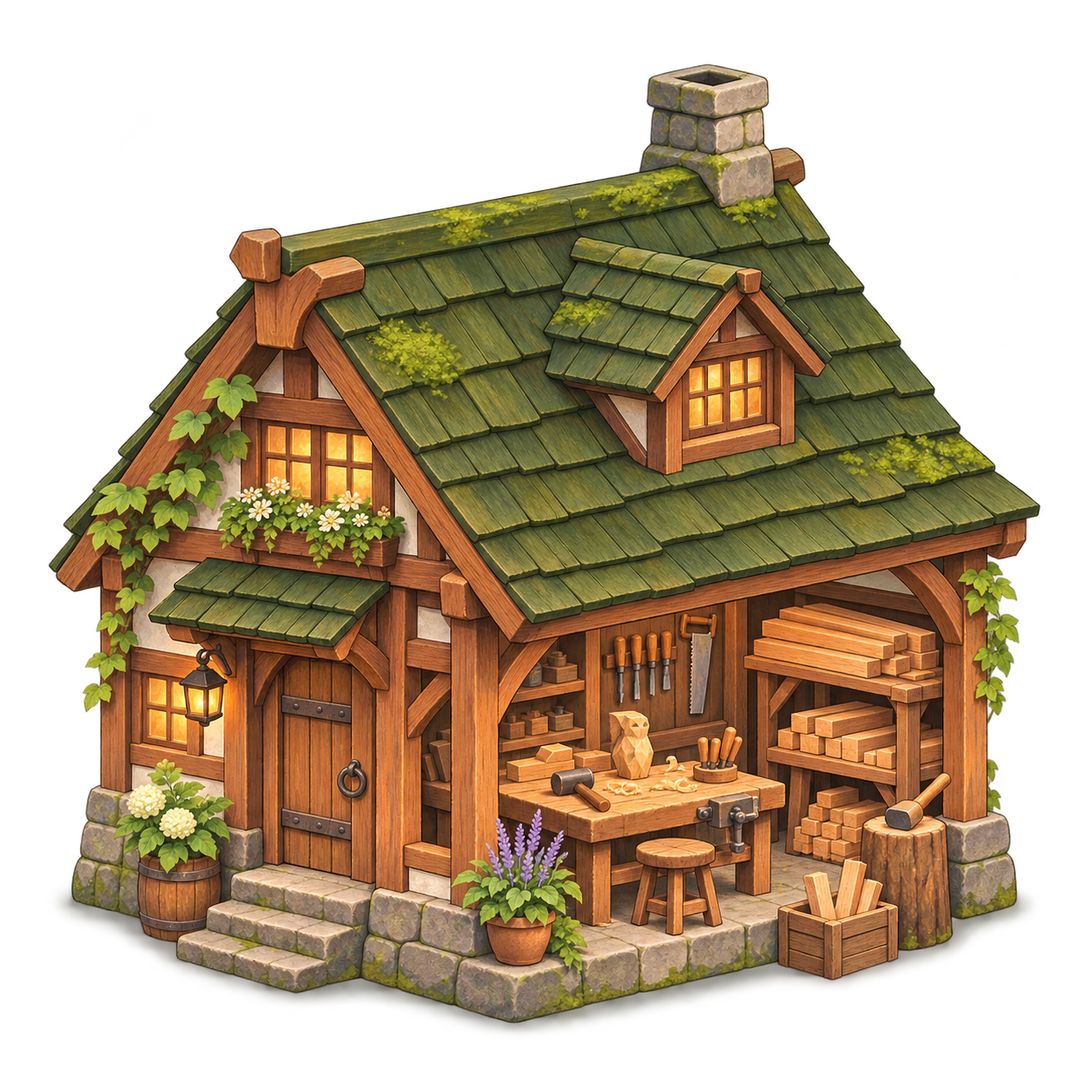
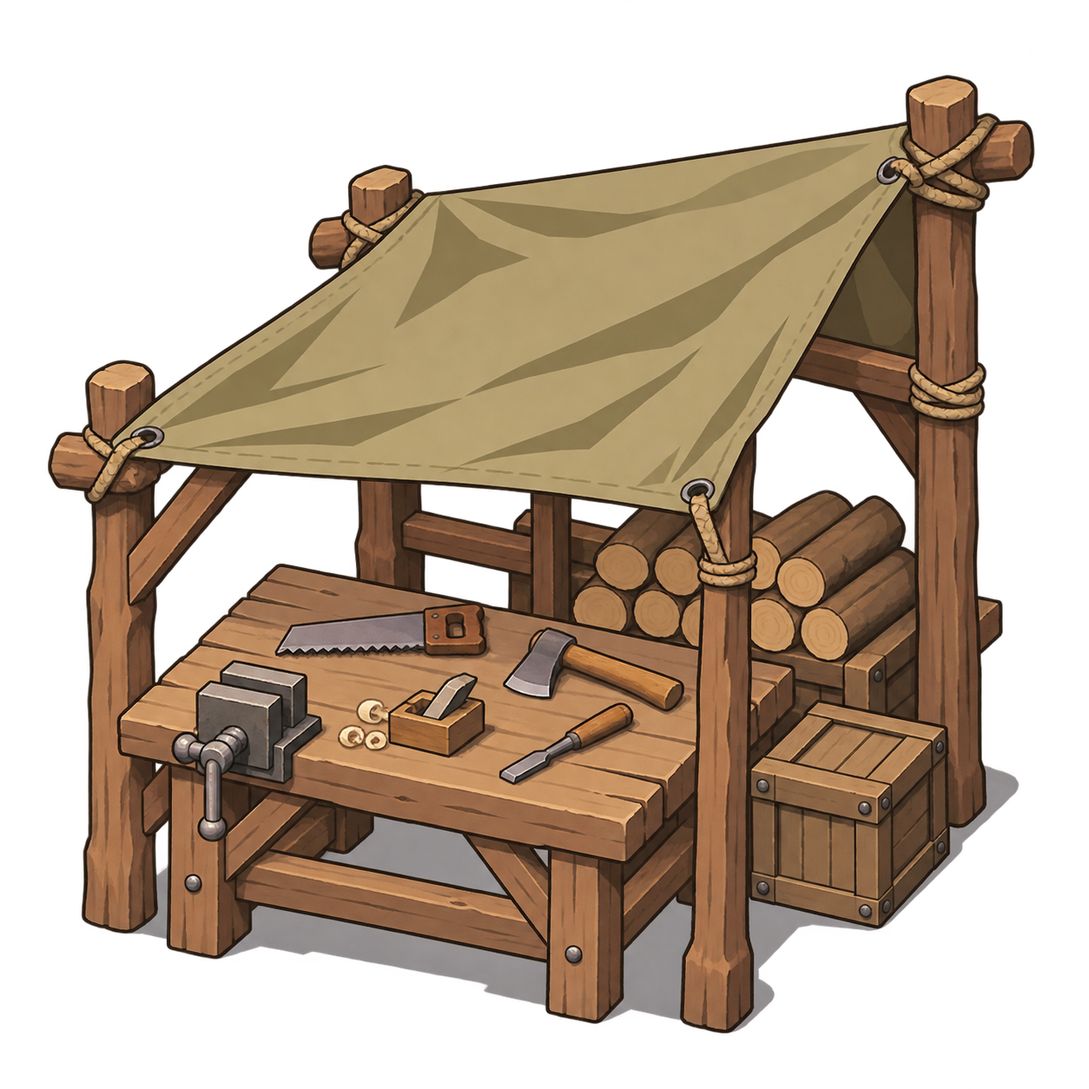
art: apply survival theme to the 2D village base

diff --git a/docs/superpowers/plans/2026-11-12-unity-phone.md b/docs/superpowers/plans/2026-11-12-unity-phone.md
@@ -1,6 +1,6 @@
 # Unity phone application Implementation Plan
 
-> **For agentic workers:** REQUIRED SUB-SKILL: Use superpowers:subagent-driven-development (recommended) or superpowers:executing-plans to implement this plan task-by-task. Steps use checkbox (`- [ ]`) syntax for tracking.
+> **For agentic workers:** REQUIRED SUB-SKILL: Use superpowers:subagent-driven-development (recommended) or superpowers:executing-plans to implement this plan task-by-task. Steps use checkbox (`- [x]`) syntax for tracking.
 
 **Goal:** Build the full landscape Unity phone UI over existing affinity/camp Dart controllers.
 **Architecture:** Invisible Flutter host dispatches validated Unity intents to saved Dart controllers. A versioned snapshot drives a Unity home/camp world and reused cabin; platform services supply real camera/speech inputs.
@@ -9,7 +9,7 @@
 
 ## Global Constraints
 - Egg appears only in cabin; #93/#100 rules and canonical species IDs remain authoritative.
-- All visible app screens in Unity; warm landscape toy-world design references #97.
+- All visible app screens in Unity; latest camp art direction is Palworld-like survival materials, with Ninja Voltage composition. #97 is reference only.
 - No fake balances or Pleos reward contract; preserve current source worktrees and persistent user data.
 - Exact app/AppAction DTO names and fields are in the spec. No raw speech/photo/token in snapshots/logs.
 - Agents own disjoint files. Main agent alone runs shared Unity Editor commands and integrates scene builder/shared bridge.
@@ -24,41 +24,47 @@
 ### Task 1: Dart state/command bridge and invisible host
 Files: phone/lib/unity_app/**, phone/lib/app.dart, phone/test/unity_app*_test.dart only.
 Consumes exact snapshot/actions from spec and existing controllers; produces UnityAppController snapshot + handleMessage and UnityAppScreen using existing UnityViewBuilder.
-- [ ] Write and run failing behavioral boundary tests (stale egg, duplicate mutation, malformed/version, outside-cabin egg input).
-- [ ] Implement normalized snapshots, validated serialized dispatch, actual affinity/camp APIs, lifecycle/dispose, default Android Unity route and injection for native input.
-- [ ] Focused tests then phone full suite, report evidence and commit only owned paths.
+- [x] Write and run failing behavioral boundary tests (stale egg, duplicate mutation, malformed/version, outside-cabin egg input).
+- [x] Implement normalized snapshots, validated serialized dispatch, actual affinity/camp APIs, lifecycle/dispose, default Android Unity route and injection for native input.
+- [x] Focused tests then phone full suite, report evidence and commit only owned paths.
 
 ### Task 2: Unity application UI
 Files: unity/allo_explore/Assets/Scripts/App/AppUi.cs, AppUiWidgets.cs, AppUiViews.cs and corresponding meta only.
 Consumes AppSession, AppState and AppAction; produces real UGUI screens for all six views with navigation, pairing, egg state/commands, three facility workflows, selection/detail, food/action use, inventory and settings. Buttons use AppSession.Request; never mutate game rules. Preserve focused text fields across snapshot ticks, show pending/empty/errors and disabled reasons. UI changes are verified visually; main runs shared Unity tests/build.
-- [ ] Build reusable accessible UGUI style matching approved reference, valid Korean text and safe area.
-- [ ] Implement all six functional views and selection/confirmation/detail flows with real state.
-- [ ] Self-check contract/cost displays, report and commit owned files.
+- [x] Build reusable accessible UGUI style matching approved reference, valid Korean text and safe area.
+- [x] Implement all six functional views and selection/confirmation/detail flows with real state.
+- [x] Self-check contract/cost displays, report and commit owned files.
 
 ### Task 3: Unity home/camp world
 Files: unity/allo_explore/Assets/Scripts/App/AppWorld.cs plus meta only.
 Consumes AppState and exact SetView/Apply signatures; produces a distinct 3D camp diorama with three named facilities, canonical friend representations, home/camp camera, cabin restoration, visible level/work states. Existing cabin/world assets remain intact. No logic/reward generation or UI overlays.
-- [ ] Implement three-dimensional camp and state visuals, hide cabin outside cabin view and disable its input/camera rig appropriately.
-- [ ] Preserve original cabin transform/settings when switching back; tolerate no creatures and missing assets.
-- [ ] Report visual verification needs and commit owned files.
+- [x] Implement three-dimensional camp and state visuals, hide cabin outside cabin view and disable its input/camera rig appropriately.
+- [x] Preserve original cabin transform/settings when switching back; tolerate no creatures and missing assets.
+- [x] Report visual verification needs and commit owned files.
 
 ### Task 4: Cabin egg model and gestures
 Files: unity/allo_explore/Assets/Scripts/App/CabinEgg.cs; Assets/Tests/EditMode/CabinEggTests.cs and meta only.
 Consumes AppSession/AppState, produces Apply/SetView; egg primitive mesh must look like an egg, with four actual cabin locations, touch/drag placement, rubbing pet, preferred-zone affordance, feedback and saved hatch/failure animation confined to cabin. UI touch cannot pet/move or drag camera simultaneously. Never score locally; send intent with egg ID.
-- [ ] Add regression tests for cabin-only visibility and exactly four zones/current-ID intent context; tell main when ready for RED run before implementing.
-- [ ] Implement gestures/model and honest server-confirmed feedback.
-- [ ] Main runs Unity suite/build; report and commit owned files.
+- [x] Add regression tests for cabin-only visibility and exactly four zones/current-ID intent context; tell main when ready for RED run before implementing.
+- [x] Implement gestures/model and honest server-confirmed feedback.
+- [x] Main runs Unity suite/build; report and commit owned files.
 
 ### Task 5: Android real speech/photo input
 Files: phone/android/app/src/main/kotlin/ai/allo/allo_phone/EggInputBridge.kt, EggInputActivity.kt, MainActivity.kt; AndroidManifest.xml, res/xml/egg_camera_paths.xml only.
 Consumes method channel allo/egg-input; produces speech String/photo JPEG bytes/null cancellation. Use proxy Activity over currently foreground Unity Activity, system speech/camera intents and FileProvider, limit image to <=1280px and composite egg with Canvas, remove metadata, clear own temp images, prevent overlapping requests. Missing service/permissions produce errors, no private logging. Dart callback handles scoring.
-- [ ] Verify failure/denial/cancellation paths in native code, no runtime install/new libraries.
-- [ ] Implement registered proxy Activity and MethodChannel attachment/cleanup without changing ExploreBridge.
-- [ ] Build validation is main agent's responsibility; report and commit owned paths.
+- [x] Verify failure/denial/cancellation paths in native code, no runtime install/new libraries.
+- [x] Implement registered proxy Activity and MethodChannel attachment/cleanup without changing ExploreBridge.
+- [x] Build validation is main agent's responsibility; report and commit owned paths.
 
 ### Task 6: Shared schema, integration and verification (main)
 Files: AppState.cs, AppSession.cs, Bridge/MessageParser.cs, Bridge/FlutterBridge.cs, Bridge/Messages.cs, Common/Hud.cs, Editor/AlloBuild.cs, new app-state EditMode tests, docs.
-- [ ] Define shared DTO/session once; retain legacy explore protocol. appMode disables old HUD.
-- [ ] Integrate components in scene generation, embed existing Do Hyeon font from #97, run base/new Unity tests and full Dart suite.
-- [ ] Stage source into existing runtime build cache, export Android, build/install with data-preserving update.
-- [ ] Inspect screenshots across six views and test real supported interaction paths; fix discovered defects, independent whole-branch review, record verified limitations and deliver runnable app.
+- [x] Define shared DTO/session once; retain legacy explore protocol. appMode disables old HUD.
+- [x] Integrate components in scene generation, embed existing Do Hyeon font from #97, run base/new Unity tests and full Dart suite.
+- [x] Stage source into existing runtime build cache, export Android, build/install with data-preserving update.
+- [x] Inspect screenshots across six views and test real supported interaction paths; fix discovered defects, independent whole-branch review, record verified limitations and deliver runnable app.
+
+
+## Final steering and verification limits
+Ninja Voltage is the basic 2D village screen; Palworld is the survival theme only. The temporary 3D preview and its tests were removed after the user's explicit correction. Final implementation uses the persistent full-screen two-axis UGUI map, clean original 2D terrain/station sprites, fixed HUD/right action rail and existing game rules. Latest evidence is in docs/work-results/unity-phone/README.md.
+
+Implementation completion does not imply physical-device camera/STT, predictive Back, real vehicle or Pleos remote rewards have been end-to-end verified. Pleos reward schema remains pending. Manual emulator pan input was previously inconclusive; the real EventSystem PlayMode test covers both axes and fixed HUD.

diff --git a/docs/village-art-provenance.md b/docs/village-art-provenance.md
@@ -41,3 +41,27 @@ Original: `/Users/seokamoto/.codex/generated_images/01a1cef0-5e19-7890-88ba-8855
 Prompt:
 
 > Production-ready original 2D mobile village-building game art for ALLO. Sophisticated hand-painted anime-background illustration, friendly but not babyish. Natural believable colors: varied moss and olive greens, warm cedar wood, ochre dirt, muted stone; soft warm daylight, restrained saturation, clear dark-sage contours and subtle painted texture. Cohesive art direction inspired by high quality village management games, with completely original scenery, no copyrighted characters or emblems. No text, no letters, no UI panels, no labels, no watermark, no checkerboard. Asset: ONE isolated friendly companion training pavilion building sprite, square composition on a genuinely transparent background. Elevated three-quarter front view with roof top visible, consistent isometric village-game perspective. Cozy cedar training lodge with a muted slate-blue pitched roof, open practice veranda, straw exercise dummy and a round unlettered archery practice target to one side, low wooden practice rail and rolled exercise mats, tasteful plants. Entire building and small footprint within canvas with 10% clear padding. High detail readable at 220 pixels. A small soft painted contact shadow directly beneath; nothing else around it. No ground tile, no surrounding scenery, no people, no weapons, no ninja insignia, no signs or symbols with letters.
+
+
+## Final 2D survival-theme revision — 2026-11-12
+
+The user's correction is explicit: Ninja Voltage is the basic 2D village screen; Palworld is the survival theme only. The temporary 3D camp has been removed. The first cottage/watercolor images above are superseded by these crisp cel-shaded 2D assets. Built-in image_gen was used, with transparent_background=true for stations and false for terrain. Original generated files are preserved.
+
+| Runtime resource | Original generated PNG |
+| --- | --- |
+| Assets/Resources/VillageArt/background.png | exec-ec0729cd-5d58-4def-bbe2-93b8b5386520.png |
+| Assets/Resources/VillageArt/workshop.png | exec-cdd2012a-0e84-4960-9707-1157078761c5.png |
+| Assets/Resources/VillageArt/kitchen.png | exec-e72bbe0c-202b-4ff1-9bae-2ab03c1c8559.png |
+| Assets/Resources/VillageArt/training.png | exec-7338339b-be5c-43e5-948b-661899c4441b.png |
+
+Original directory: /Users/seokamoto/.codex/generated_images/01a1cef0-5e19-7890-88ba-88558762a2db/. Runtime resources are under unity/allo_explore/. Terrain is 1672×941 RGB; station sprites are 1254×1254 RGBA. Import settings preserve sRGB, original aspect and transparent edges, without mipmaps or NPOT rescaling.
+
+### Final prompt set
+Common direction: professional 2D Japanese anime mobile strategy village game art; fixed raised oblique overview about 50 degrees down; precise confident warm-colored contours, crisp designed edges, only 2–3 restrained cel-shadow tones. Mature muted forest green, rough cedar, khaki cloth, gray stone and packed-earth palette, subdued daylight from upper left. Not a 3D render, not watercolor/painterly, not glossy concept art. No characters, text, labels, UI, decorative ivy, ornate cottages, magical glow or chibi toy shapes. Station sprites must read at 220 pixels wide with generous transparent margins and subtle localized contact shadow.
+
+- Terrain prompt: landscape 16:9 continuous world terrain to every edge, no frame/card/island/ground tile or visible sky. Simplified pine and broadleaf forest at upper/side margins, irregular low rocky ledges, sparse meadow tufts and worn walking routes. Three empty irregular dirt clearings at x24%/y54%, x48%/y57%, x71%/y54% for later station placement; no buildings or stations baked into the terrain. Rightmost 15% calm for floating controls. Natural varied meadow in foreground, no vast solid-green area.
+- Workshop prompt: isolated low rugged timber woodworking bench with clamp/hand tools, open timber frame supporting a modest sloping khaki canvas tarp, small stack of cut logs and one supply crate. No house, walls, door or chimney; practical wilderness crafting silhouette.
+- Kitchen prompt: isolated large dark-iron cauldron hanging from a simple wooden tripod over a compact stone-ring campfire with small orange coals/flame; beside it a low cedar prep table, chopping board, one vegetable basket, beige supply sack and small crate. No kitchen building.
+- Training prompt: isolated bundled straw human-shaped dummy on wood support, separate red/ochre round target on wooden stand, short partial rough timber back fence, worn khaki mat, compact rack of unbladed wooden practice sticks. No building.
+
+No reference game's copyrighted artwork was imported.

diff --git a/docs/superpowers/specs/2026-11-12-unity-phone-design.md b/docs/superpowers/specs/2026-11-12-unity-phone-design.md
@@ -3,7 +3,7 @@
 User approved 2026-11-12: all visible phone application screens in Unity; reuse current PR #93 affinity and #100 camp logic. PR #97 supplies visual reference only. The egg exists only in the vehicle-interior view, including its nested photo quest. Pleos fishing/logging rewards are planned; its upstream PR is still being revised.
 
 ## Product and visual direction
-Landscape, warm cream/cocoa/mint toy world, chunky rounded controls, Korean copy, large legible actions, one yellow primary action per surface. User steering: home/camp is a 2D village hub inside Unity, led by NARUTO X BORUTO NINJA VOLTAGE village interaction references; CookieRun Kingdom production status and Slime ISEKAI Memories town growth are secondary references. Three fixed facilities show real levels/jobs/materials; tap a facility to open existing worker/work controls. Cabin reuses the existing 3D car/world. All application menus, pairing fields, camp commands, inventory, dex/detail and settings are Unity UGUI. Android camera/speech/permission surfaces are platform services. Preserve canonical species IDs and existing acquisition rules.
+Landscape with a dominant full-screen survival camp and compact Korean controls. Latest user steering supersedes the earlier painted village: use Palworld-like practical work areas, rough timber, canvas, stone fire/cooking pot and training props, drawn as clean 2D anime-game sprites with restrained cel shading, not a 3D camp. Ninja Voltage remains the primary composition/interaction reference: thin resource HUD, right circular action rail, small facilities and bounded horizontal/vertical world panning. CookieRun production status and Slime town growth are secondary references. Three fixed facilities show real levels/jobs/materials; tap a facility to open existing worker/work controls. Cabin reuses the existing 3D car/world. Application menus, pairing fields, camp commands, inventory, dex/detail and settings are Unity UGUI. Android camera/speech/permission surfaces are platform services. Preserve canonical species IDs and existing acquisition rules.
 
 ## Behaviour
 Home -> cabin, camp, friends/dex, supplies, connection/settings. Game stage does not force users out of home or camp. Egg model, affinity meter, four placement zones and speech/pet/photo/discard controls appear only in cabin. 50-point lock -> real camera photo with egg composite -> authenticated upload -> 65; 100 triggers the existing saved hatch, revealed inside cabin. Failed/discarded egg has explicit restart. Never credit an unconfirmed result. Camp consumes actual saved materials, validates fixed roles, runs build/cook/train in parallel and settles offline with existing controllers. Show locked/empty/error/pending states and actionable reasons. No seeded production inventory or fake success.
@@ -47,3 +47,10 @@ Reference evidence: [Ninja Voltage official developer interview](https://www.ban
 
 ## Fresh visual direction after user feedback
 The first UI was rejected as overly panel-heavy and its cream/mint colors unnatural. Replace the composition with a dominant original hand-painted village, compact HUD/resource bar/icon nav and docked facility inspector. Use natural moss/olive/cedar/ochre/stone art, dark-sage/paper UI and restrained amber emphasis. Cabin uses minimal overlay docks/drawers. Preserve all already-tested commands and data rules. Original project-bound raster assets and full prompts are recorded in docs/village-art-provenance.md.
+
+## Final village composition steering
+User explicitly approved keeping building artwork but reducing its size, replacing the component-like background with a full-screen world and adding limited horizontal/vertical camera movement. They authorized discarding prior visual work to match Ninja Voltage village composition closely. The full-screen world is behind HUD, with smaller facilities and a fixed right circular action rail. Map movement is presentation only and does not change facility slots, ownership, materials or affinity.
+
+
+## Latest correction: 2D baseline, survival theme only
+User clarified that Ninja Voltage remains the basic 2D village screen and Palworld is ONLY the theme reference. The temporary isolated 3D camp/RenderTexture implementation is removed. The persistent full-screen 2D world and bounded horizontal/vertical panning remain; replace cottages with original crisp cel-shaded workbench, outdoor cauldron and training sprites over a woodland terrain background. Keep small facility labels, fixed thin HUD/right circular rail and existing saved rules. The cabin alone retains its existing 3D presentation.

diff --git a/DESIGN.md b/DESIGN.md
@@ -1,11 +1,13 @@
 # ALLO Unity phone UI
 
-User rejected the first large cream/mint panel composition and unnatural colors. Replace it with an art-first village composition, not incremental decoration of that layout.
+The baseline is the 2D village composition of Ninja Voltage. Palworld informs ONLY the wilderness survival theme and material palette, not a 3D camera or 3D camp. The user explicitly corrected that distinction on 2026-11-12.
 
-Home/camp is an Experience surface: original hand-painted woodland, moss/olive greens, cedar wood, ochre dirt and muted stone. Native-color artwork lives in Assets/Resources/VillageArt. A compact54px HUD and66px icon navigation leave the village dominant. Three fixed facility illustrations open a single docked inspector; show real materials, levels, workers and jobs. Unbuilt facilities are clearly marked as previews. The inspector, dex, inventory and settings are Operate surfaces.
+Home/camp is a full-screen 2D illustrated woodland base with clean anime-game outlines and restrained cel shading. Three small transparent sprites show a timber workbench/canvas shelter, outdoor cauldron/prep table, and straw dummy/target training area. Use muted forest green, rough cedar, khaki canvas, stone and earth. Avoid ornate cottages, excess decorative ivy, glossy concept-art rendering and painterly haze.
 
-UI palette: dark sage ink #263A32, forest accent #53765B, neutral paper #F2EEE5, fine border #B8B7A7, amber primary #D5A64A. Do not tint the natural artwork mint or cover it with cream haze. Typography is embedded Do Hyeon; height-based1600×720 canvas with safe-area scaling.
+A persistent full-canvas UGUI layer contains the 2D terrain, sprites, labels, jobs and owned-friend marker. Everything in the world pans together on both axes inside a clamped oversized rectangle. The thin resource HUD and right circular action rail stay fixed, following Ninja Voltage's village composition. Pan survives snapshots, home/camp changes and inspector opening. Facility positions leave room for the right rail. A single docked inspector opens actual saved facility controls; unbuilt facilities are clearly labeled previews.
 
-Cabin is immersive3D with a thin affinity/remaining HUD, compact action dock, optional text/zone drawers and a start/failure sheet. No permanent opaque side panels over the car. Egg visuals exist only there. Preserve focused text and independent scroll positions across authoritative snapshots. Missing art uses a small explicit placeholder without changing canonical IDs.
+UI palette: dark sage ink #263A32, forest accent #53765B, neutral paper #F2EEE5, fine border #B8B7A7, amber primary #D5A64A. Typography is embedded Do Hyeon; height-based 1600×720 canvas with safe-area scaling. Keep the world dominant, with compact controls.
 
-Composition/interaction references: prioritize Ninja Voltage village facility selection; CookieRun production status and Slime kingdom growth are secondary. Project art is original; no game IP assets are imported. See docs/village-art-provenance.md for built-in image_gen prompts and paths.
+Cabin preserves the existing immersive 3D car with a thin affinity/remaining HUD, compact action dock, optional text/zone drawers and a start/failure sheet. Egg visuals exist only there. Preserve focused text and independent scroll positions across authoritative snapshots. Missing character art uses an explicit small placeholder without changing canonical IDs.
+
+Dart controllers own all costs, affinity, ownership, saves and offline jobs. Pleos gathering integration awaits its upstream contract. Project-bound image assets/prompts are recorded in docs/village-art-provenance.md. Verification is recorded in docs/work-results/unity-phone/README.md.

diff --git a/docs/work-results/unity-phone/README.md b/docs/work-results/unity-phone/README.md
@@ -1,0 +1,20 @@
+# Unity phone implementation
+
+The Android phone app now boots the Unity application interface over the existing Dart affinity, collection and camp controllers. Views cover home, cabin, facilities, friends, inventory and settings. Egg models and gestures exist only inside the vehicle cabin. Saved materials, role assignments, build/cook/train costs, offline jobs and hatching rules remain owned by the original controllers.
+
+## Latest camp direction
+The user clarified that Ninja Voltage is the baseline 2D village screen; Palworld supplies ONLY the wilderness survival theme. The temporary 3D camp was removed. The final map uses original cel-shaded 2D woodland terrain and three transparent sprites: workbench/canvas shelter, outdoor cauldron/prep table, and training dummy/target. No reference-game IP assets were copied. Native color/alpha are preserved and assets/prompts are recorded in docs/village-art-provenance.md.
+
+Background, facility sprites, hit areas, labels, jobs and owned-friend marker pan together on both axes inside bounds. The thin HUD and right circular rail stay fixed. The original 3D cabin remains intact, and only that view shows the egg.
+
+## Verification
+- Final 2D source: Unity EditMode 94/94 passed (/tmp/allo-camp2d-editmode.xml); PlayMode 1/1 passed (/tmp/allo-camp2d-playmode.xml), both run after the 3D removal and new assets.
+- Real EventSystem PlayMode coverage verifies raycast drag movement on both axes with fixed HUD.
+- Phone suite: 297/297 passed before the presentation-only camp revision; no Dart gameplay changes in this revision.
+
+Final 2D Android export and debug APK build succeeded (/tmp/allo-camp2d-export.log and /tmp/allo-camp2d-apk.log, 40.4s APK build). Installed with adb install -r to Android 16/API 36 emulator-5554, preserving saved data. Actual Unity view showed the new 2D forest terrain, three correctly aligned survival station sprites, full-screen background and clear right rail.
+
+## Remaining integration limits
+Pleos fishing/logging rewards await the upstream contract; no remote reward schema, fake receipt or production balance was invented. Real vehicle sync and physical-device camera/microphone remain unverified. Manual emulator system Back/pan automation was inconclusive; no manual success is claimed for those checks. Character species without approved sprites use an explicit neutral placeholder without substituting another species.
+
+The runtime demonstration uses the existing separate fake-feed profile and preserves its saved data on installation. No credentials or runtime configuration values are stored here.

diff --git a/PRODUCT.md b/PRODUCT.md
@@ -16,7 +16,7 @@ Care for an egg inside the vehicle, hatch and collect friends, then assign their
 The Android demonstration runs a Unity UI hosted by Flutter. Existing Dart controllers own rules, storage and vehicle communication. Real and demo camp profiles are separate.
 
 ## Capabilities and Constraints
-All app views use Unity. Only the vehicle interior uses the active egg model. Home and camp use a 2D village overview with three fixed facilities. Materials acquired by planned Pleos fishing/logging activities will be usable on the phone; that upstream reward contract is still being revised. Current distance/lookout material rules stay in place until it is supplied. Preserve existing canonical species IDs, ownership, affinity/photo rules and offline camp settlement.
+All app views use Unity. Only the vehicle interior uses the active egg model. Home and camp use a full-screen 2D Unity village overview with three fixed facilities and bounded two-axis panning. Materials acquired by planned Pleos fishing/logging activities will be usable on the phone; that upstream reward contract is still being revised. Current distance/lookout material rules stay in place until it is supplied. Preserve existing canonical species IDs, ownership, affinity/photo rules and offline camp settlement.
 
 ## Brand Commitments
-Warm ALLO companion identity and Korean copy. The user rejected the first large cream/mint UI; use a fresh natural woodland/wood/earth palette and compact game HUD. Prioritize Ninja Voltage village UX references, with CookieRun and Slime kingdom-building references. Reuse project assets without importing those games’ IP artwork.
+Warm ALLO companion identity and Korean copy. The user rejected the first large cream/mint UI; use a fresh natural woodland/wood/earth palette and compact game HUD. Use Ninja Voltage as the baseline 2D composition/UX reference and Palworld only as the wilderness survival theme/material reference, with CookieRun and Slime kingdom-building references. Reuse project assets without importing those games’ IP artwork.
